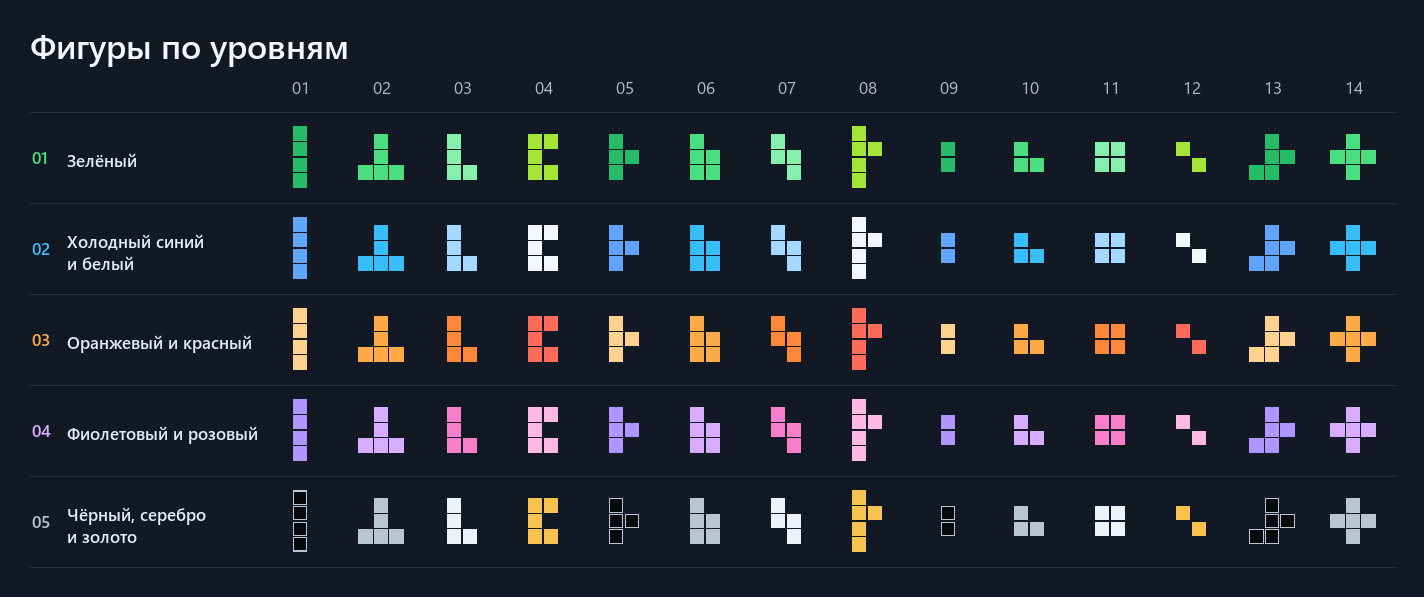
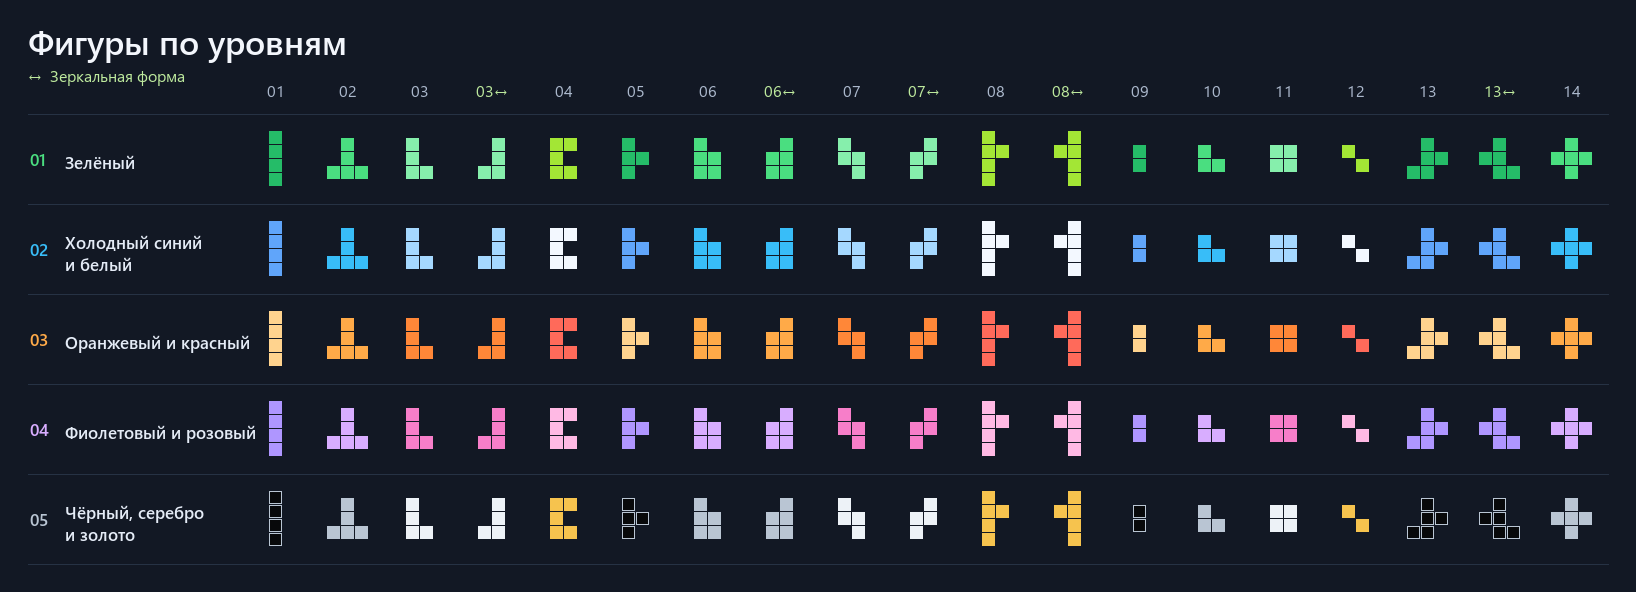
added scoring, levelling, weighted different figs with diff changes, added figs mirrored versions

diff --git a/src/Tetris.Desktop/MainWindow.xaml b/src/Tetris.Desktop/MainWindow.xaml
@@ -27,7 +27,7 @@
                 <ScrollViewer VerticalScrollBarVisibility="Auto" Padding="5,4,24,4">
                     <StackPanel VerticalAlignment="Center" MaxWidth="390">
                         <TextBlock Text="Новая партия" FontSize="42" FontWeight="Bold" Margin="0,0,0,9"/>
-                        <TextBlock Style="{StaticResource MutedText}" Text="Фигуры падают и закрепляются. Очистка строк и начисление очков появятся на следующем этапе." Margin="0,0,0,24"/>
+                        <TextBlock Style="{StaticResource MutedText}" Text="Заполняй строки, чтобы набирать очки. Каждые 10 очищенных строк повышают уровень." Margin="0,0,0,24"/>
                         <TextBlock Text="Начальный уровень" FontWeight="SemiBold" Margin="0,0,0,9"/>
                         <UniformGrid Columns="5" Margin="0,0,0,18">
                             <RadioButton x:Name="LevelOne" Style="{StaticResource Choice}" GroupName="Level" Tag="1" Content="1" AutomationProperties.Name="Уровень 1" Margin="0,0,6,0" Checked="OnLevelSelected"/>

diff --git a/src/Tetris.Core/Gameplay/GameSession.cs b/src/Tetris.Core/Gameplay/GameSession.cs
@@ -61,6 +61,9 @@ public sealed class GameSession : IGameSession
     private static readonly TimeSpan LockDelay = TimeSpan.FromMilliseconds(300);
     private static readonly TimeSpan MoveRepeatDelay = TimeSpan.FromMilliseconds(150);
     private static readonly TimeSpan MoveRepeatInterval = TimeSpan.FromMilliseconds(50);
+    private static readonly TimeSpan DashBonusInterval = TimeSpan.FromMilliseconds(200);
+    private const int MaximumDashBonus = 50;
+    private const int LinesPerLevel = 10;
     private static readonly TimeSpan[] FallIntervals =
     [
         TimeSpan.FromMilliseconds(900),
@@ -80,6 +83,7 @@ public sealed class GameSession : IGameSession
     private HorizontalDirection _heldDirections;
     private HorizontalDirection _repeatDirection;
     private TimeSpan _activeTime;
+    private TimeSpan _dashTimeSinceScore;
     private TimeSpan _timeSinceFallStep;
     private TimeSpan _timeOnSupport;
     private TimeSpan _timeUntilRepeat;
@@ -92,7 +96,7 @@ public sealed class GameSession : IGameSession
         Right = 2
     }
 
-    public GameSession() : this(new RandomFigureSource())
+    public GameSession() : this(new WeightedFigureSource())
     {
     }
 
@@ -110,12 +114,13 @@ public sealed class GameSession : IGameSession
         ArgumentOutOfRangeException.ThrowIfLessThan(initialLevel, 1);
         ArgumentOutOfRangeException.ThrowIfGreaterThan(initialLevel, 5);
 
-        var active = CreatePiece(_figures.NextType());
-        var next = CreatePiece(_figures.NextType());
+        var active = DrawPiece();
+        var next = DrawPiece();
         _board = new Board();
         _initialLevel = initialLevel;
         ClearHeldControls();
         _activeTime = TimeSpan.Zero;
+        _dashTimeSinceScore = TimeSpan.Zero;
         _timeSinceFallStep = TimeSpan.Zero;
         _timeOnSupport = TimeSpan.Zero;
         Snapshot = new GameSnapshot(GamePhase.Running, initialLevel, 0, 0, _board.LockedCells, active, next);
@@ -184,6 +189,8 @@ public sealed class GameSession : IGameSession
 
             var spent = elapsed < untilAction ? elapsed : untilAction;
             _activeTime += spent;
+            if (_isDashing && !supported)
+                _dashTimeSinceScore += spent;
             _timeSinceFallStep += spent;
             _timeOnSupport = supported ? _timeOnSupport + spent : TimeSpan.Zero;
             if (repeating)
@@ -271,12 +278,17 @@ public sealed class GameSession : IGameSession
 
     private void LockPiece(PieceSnapshot piece)
     {
-        var board = _board.WithLockedPiece(piece);
+        var (board, clearedLines) = _board.LockAndClear(piece);
+        var score = Snapshot.Score + ScoreForClear(clearedLines);
+        var totalLines = Snapshot.ClearedLines + clearedLines;
+        var level = Math.Min(FallIntervals.Length, _initialLevel + totalLines / LinesPerLevel);
         var next = Snapshot.NextPiece;
         var canSpawn = next is not null && board.CanPlace(next);
-        var preview = canSpawn ? CreatePiece(_figures.NextType()) : null;
+        var preview = canSpawn ? DrawPiece() : null;
 
         _board = board;
+        if (clearedLines > 0 || !canSpawn)
+            _dashTimeSinceScore = TimeSpan.Zero;
         _timeSinceFallStep = TimeSpan.Zero;
         _timeOnSupport = TimeSpan.Zero;
         if (!canSpawn)
@@ -285,11 +297,25 @@ public sealed class GameSession : IGameSession
         Snapshot = Snapshot with
         {
             Phase = canSpawn ? GamePhase.Running : GamePhase.Lost,
+            Level = level,
+            Score = score,
+            ClearedLines = totalLines,
             LockedCells = board.LockedCells,
             ActivePiece = canSpawn ? next : null,
             NextPiece = preview,
-            Result = canSpawn ? null : new GameResult(Snapshot.Score, _activeTime, _initialLevel)
+            Result = canSpawn ? null : new GameResult(score, _activeTime, _initialLevel)
         };
+    }
+
+    private int ScoreForClear(int clearedLines)
+    {
+        if (clearedLines == 0)
+            return 0;
+
+        var lineMultiplier = clearedLines == 4 ? 2 : 1;
+        var lineScore = 25 * (Snapshot.Level + 3) * clearedLines * lineMultiplier;
+        var dashBonus = Math.Min(MaximumDashBonus, _dashTimeSinceScore.Ticks / DashBonusInterval.Ticks);
+        return lineScore + (int)dashBonus;
     }
 
     private PieceSnapshot? FindRotation(PieceSnapshot piece, bool clockwise)
@@ -310,9 +336,10 @@ public sealed class GameSession : IGameSession
         return null;
     }
 
-    private static PieceSnapshot CreatePiece(int type)
+    private PieceSnapshot DrawPiece()
     {
-        var mask = PieceCatalog.GetMask(type);
+        var type = _figures.NextType();
+        var mask = PieceCatalog.GetMask(type, _figures.NextIsMirrored(type));
         var column = (GameSnapshot.BoardColumns - mask[0].Length) / 2;
         return new PieceSnapshot(type, column, 0, mask);
     }
@@ -335,8 +362,21 @@ public sealed class GameSession : IGameSession
         return Array.AsReadOnly(rotated);
     }
 
-    private sealed class RandomFigureSource : IFigureSource
+    private sealed class WeightedFigureSource : IFigureSource
     {
-        public int NextType() => Random.Shared.Next(1, PieceCatalog.Count + 1);
+        private static readonly int[] Tickets = Enumerable.Range(1, PieceCatalog.Count)
+            .SelectMany(type => Enumerable.Repeat(type, WeightFor(type)))
+            .ToArray();
+
+        public int NextType() => Tickets[Random.Shared.Next(Tickets.Length)];
+
+        public bool NextIsMirrored(int type) => PieceCatalog.HasMirroredVariant(type) && Random.Shared.Next(2) == 1;
+
+        private static int WeightFor(int type) => type switch
+        {
+            8 or 9 or 10 or 12 => 2,
+            13 or 14 => 1,
+            _ => 4
+        };
     }
 }

diff --git a/src/Tetris.Core/Gameplay/Board.cs b/src/Tetris.Core/Gameplay/Board.cs
@@ -15,6 +15,8 @@ public sealed class Board
         {
             if (!IsInside(cell.Column, cell.Row))
                 throw new ArgumentException("Клетка находится за пределами поля.", nameof(lockedCells));
+            if (_occupied[cell.Row, cell.Column])
+                throw new ArgumentException("В поле есть повторяющаяся клетка.", nameof(lockedCells));
 
             _occupied[cell.Row, cell.Column] = true;
         }
@@ -35,8 +37,31 @@ public sealed class Board
         return true;
     }
 
-    internal Board WithLockedPiece(PieceSnapshot piece) =>
-        new(LockedCells.Concat(GetCells(piece)));
+    internal (Board Field, int ClearedLines) LockAndClear(PieceSnapshot piece)
+    {
+        var cells = LockedCells.Concat(GetCells(piece)).ToArray();
+        var rowSizes = new int[GameSnapshot.BoardRows];
+        foreach (var cell in cells)
+            rowSizes[cell.Row]++;
+
+        var rowDrop = new int[GameSnapshot.BoardRows];
+        var clearedLines = 0;
+        for (var row = GameSnapshot.BoardRows - 1; row >= 0; row--)
+        {
+            if (rowSizes[row] == GameSnapshot.BoardColumns)
+                clearedLines++;
+            else
+                rowDrop[row] = clearedLines;
+        }
+
+        if (clearedLines == 0)
+            return (new Board(cells), 0);
+
+        var remaining = cells
+            .Where(cell => rowSizes[cell.Row] < GameSnapshot.BoardColumns)
+            .Select(cell => cell with { Row = cell.Row + rowDrop[cell.Row] });
+        return (new Board(remaining), clearedLines);
+    }
 
     private static IEnumerable<BoardCell> GetCells(PieceSnapshot piece)
     {

diff --git a/src/Tetris.Core/Gameplay/PieceCatalog.cs b/src/Tetris.Core/Gameplay/PieceCatalog.cs
@@ -3,6 +3,8 @@ namespace Tetris.Core.Gameplay;
 public interface IFigureSource
 {
     int NextType();
+
+    bool NextIsMirrored(int type) => false;
 }
 
 public static class PieceCatalog
@@ -26,14 +28,24 @@ public static class PieceCatalog
         Mask(".#.", "###", ".#.")
     ];
 
+    private static readonly Dictionary<int, IReadOnlyList<string>> MirroredMasks =
+        new[] { 3, 6, 7, 8, 13 }.ToDictionary(type => type, type => Reflect(Masks[type - 1]));
+
     public static int Count => Masks.Length;
 
-    public static IReadOnlyList<string> GetMask(int type)
+    public static bool HasMirroredVariant(int type) => MirroredMasks.ContainsKey(type);
+
+    public static IReadOnlyList<string> GetMask(int type, bool mirrored = false)
     {
         ArgumentOutOfRangeException.ThrowIfLessThan(type, 1);
         ArgumentOutOfRangeException.ThrowIfGreaterThan(type, Count);
-        return Masks[type - 1];
+        return mirrored && MirroredMasks.TryGetValue(type, out var reflected)
+            ? reflected
+            : Masks[type - 1];
     }
 
     private static IReadOnlyList<string> Mask(params string[] rows) => Array.AsReadOnly(rows);
+
+    private static IReadOnlyList<string> Reflect(IReadOnlyList<string> rows) =>
+        Array.AsReadOnly(rows.Select(row => new string(row.Reverse().ToArray())).ToArray());
 }

diff --git a/docs/spec.md b/docs/spec.md
@@ -6,11 +6,19 @@
 
 ## Поле и фигуры
 
-**GAME-01.** Видимое поле имеет ширину 10 и высоту 20 клеток. Для случайного выбора доступны 14 типов фигур. Следующая фигура отображается в отдельной области и становится активной, если после закрепления предыдущей фигуры и очистки строк её удаётся разместить в стартовой позиции. Прогноз места падения отсутствует.
+**GAME-01.** Видимое поле имеет ширину 10 и высоту 20 клеток. Для случайного выбора доступны 14 типов, которые дают 19 форм с учётом зеркальных вариантов. Следующая фигура отображается в отдельной области и становится активной, если после закрепления предыдущей фигуры и очистки строк её удаётся разместить в стартовой позиции. Прогноз места падения отсутствует.
 
-**Выбор фигур.** Первую активную и каждую следующую фигуру выбирают из полного набора из 14 типов. Каждый тип имеет вероятность $1/14$ при каждом выборе. Выборы независимы, поэтому одна и та же фигура может выпасть несколько раз подряд.
+**Выбор фигур.** Первую активную и каждую следующую фигуру выбирают из полного набора из 14 типов с учётом их весов. Вероятность отдельного типа равна его весу, делённому на сумму весов всех типов. Сумма весов равна 42. Выборы независимы, поэтому одна и та же фигура может выпасть несколько раз подряд.
 
-**Стартовая позиция.** Фигура появляется в исходной ориентации с рисунка. Верхняя клетка фигуры находится в первой строке. Ограничивающий прямоугольник центрируется по горизонтали. Если свободных столбцов нечётное число, справа оставляется на один свободный столбец больше, чем слева.
+| Типы фигур | Вес каждого типа | Вероятность каждого типа |
+|---|---:|---:|
+| 1–7 и 11 | 4 | $4/42$ |
+| 8, 9, 10 и 12 | 2 | $2/42$ |
+| 13 и 14 | 1 | $1/42$ |
+
+Для типов 3, 6, 7, 8 и 13 после выбора типа с равными шансами выбирается исходная или зеркальная форма. Вероятность из таблицы относится к типу целиком. Каждая из двух его форм получает половину этого шанса. У обеих форм одна и та же цветовая позиция в палитре уровня.
+
+**Стартовая позиция.** Фигура появляется в исходной ориентации выбранной формы. Верхняя клетка фигуры находится в первой строке. Ограничивающий прямоугольник центрируется по горизонтали. Если свободных столбцов нечётное число, справа оставляется на один свободный столбец больше, чем слева.
 
 В первой версии используются все 14 силуэтов с рисунка. Идентификатор фигуры определяется её номером в таблице. У фигуры 12 клетки соприкасаются углами. Обе клетки двигаются и закрепляются как единое целое.
 
@@ -33,7 +41,17 @@
 | 13 | `.#./.##/##.` | 5 |
 | 14 | `.#./###/.#.` | 5 |
 
-Игра строит фигуры из клеток по маскам. В [наборе изображений](../assets/figures/) каждая исходная ориентация представлена прозрачным PNG размером 144 × 144 пикселя для каждого уровня. Например, `level-1/figure-03.png` соответствует фигуре 3 на первом уровне.
+Игра строит фигуры из клеток по маскам. Для зеркальной формы порядок клеток внутри каждой строки меняется на обратный.
+
+| Тип | Маска зеркальной формы |
+|---:|---|
+| 3 | `.#/.#/##` |
+| 6 | `.#/##/##` |
+| 7 | `.#/##/#.` |
+| 8 | `.#/##/.#/.#` |
+| 13 | `.#./##./.##` |
+
+В [наборе изображений](../assets/figures/) для каждой формы и уровня есть прозрачный PNG размером 144 × 144 пикселя. Например, `level-1/figure-03.png` и `level-1/figure-03-mirror.png` показывают обе формы типа 3. [Обзор форм по уровням](../assets/figures-overview.png).
 
 ## Управление, падение и очистка поля
 
@@ -142,6 +160,8 @@ $$
 |---|---|---|
 | GAME-01 | Запустить партию и дождаться закрепления фигуры | Поле 10 × 20. Ранее показанная следующая фигура появляется на поле. Область предпросмотра обновляется. |
 | GAME-01 | Проверить последовательность, в которой случайный выбор трижды подряд возвращает один тип фигуры | Появляются три фигуры одного типа подряд. Предпросмотр каждый раз совпадает с фигурой, которая появится следующей. |
+| GAME-01 | Проверить веса исходов генератора для всех 14 типов | Фигуры 8, 9, 10 и 12 получают по 2 исхода из 42, фигуры 13 и 14 — по 1, остальные — по 4. Первая активная и следующая фигуры выбираются из одного распределения. |
+| GAME-01 | Принудительно выбрать зеркальную форму одного из типов 3, 6, 7, 8 или 13 для первой и следующей фигур | Игра использует зеркальную маску для отрисовки и столкновений. После закрепления предыдущей фигуры на поле появляется та же форма, которая была в предпросмотре. |
 | GAME-01 | На пустом поле проверить появление фигур 1 и 11 | Фигура 1 появляется вертикально в пятом столбце. Фигура 11 занимает пятый и шестой столбцы. Обе начинаются с первой строки. |
 | MOVE-01 | В каждой схеме нажать и удерживать клавишу сдвига, затем отпустить её | Первый сдвиг происходит сразу. Следующие сдвиги происходят через 150, 200, 250 мс и далее через каждые 50 мс, пока положение допустимо. После отпускания повтор прекращается. |
 | MOVE-01, MOVE-03 | В каждой схеме удержать отдельно клавишу вращения и клавишу дэша на свободном участке поля | Вращение выполняется один раз. Дэш ускоряет падение до одного шага вниз каждые 50 мс. При отпускании восстанавливается обычная скорость. |

diff --git a/docs/architecture.md b/docs/architecture.md
@@ -23,9 +23,9 @@
 |---|---|
 | `GameSession` | Владеет полем, активной и следующей фигурами, состоянием партии, уровнями, счётом, отсчётами падения и закрепления и накопленным временем дэша. Обрабатывает команды и продвижение игрового времени. |
 | `Board` | Хранит сетку закреплённых клеток 10 × 20. Проверяет допустимость размещения, закрепляет клетки и удаляет заполненные строки. Занятые клетки хранят тип фигуры, чтобы интерфейс мог перекрасить их при смене уровня. |
-| `PieceType` | Описывает одну из 14 форм в исходной ориентации. Содержит номер типа и маску клеток. |
+| `PieceType` | Описывает один из 14 типов фигур. У пяти типов номер общий для исходной и зеркальной масок. |
 | `ActivePiece` | Представляет фигуру текущего хода через тип, положение и ориентацию. |
-| `IFigureSource` | Даёт очередной тип фигуры. В игре выбор равновероятный и независимый. В проверках и заглушках можно использовать заранее заданную последовательность. |
+| `IFigureSource` | Даёт очередной тип фигуры и признак зеркальной формы. Тип выбирается независимо с весами из спецификации. Для типа с зеркальной формой обе маски равновероятны. В проверках и заглушках можно задать последовательность заранее. |
 | `GameSnapshot` | Снимок для чтения. Содержит поле, активную и следующую фигуры, счёт, число очищенных строк, уровень и состояние партии. Изменения состояния ядра выполняются через игровые команды и обновления времени. |
 | `GameResult` | Игровые данные завершённой партии — итоговый счёт, активное время и начальный уровень. Дата и идентификатор записи добавляются при подготовке записи для хранилища. |
 | `GameController` | Преобразует ввод в игровые команды, передаёт интервалы времени, выбирает экран и инициирует сохранение при переходе партии в состояние проигрыша. |
